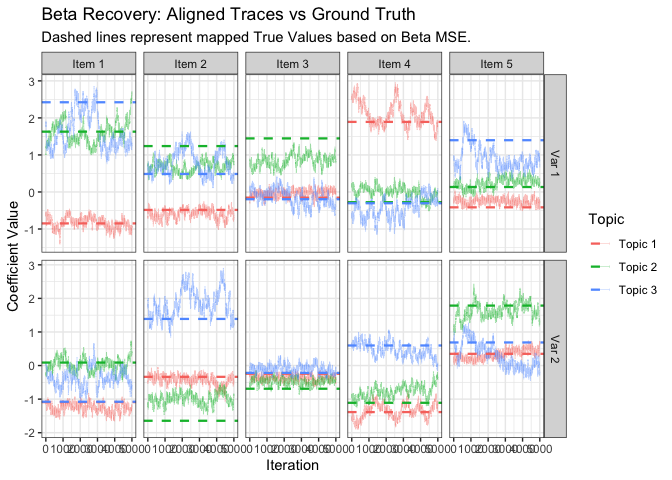
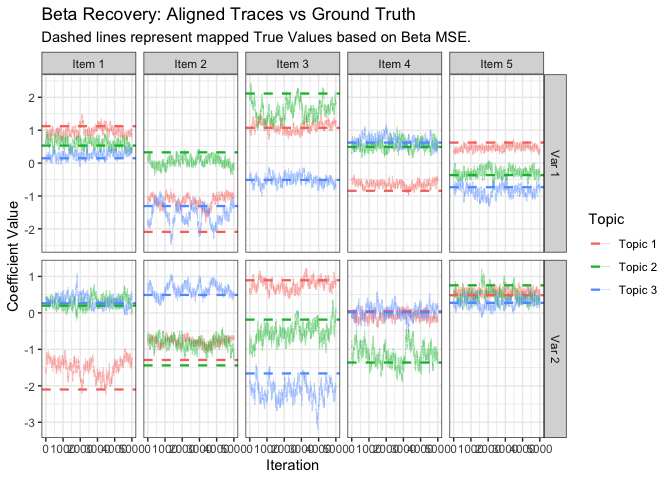
set class to samples

diff --git a/README.md b/README.md
@@ -18,17 +18,6 @@ You can install the development version of MRDLTM from GitHub:
 ``` r
 # install.packages("devtools")
 devtools::install_github("kyohashi/MRDLTM")
-#> 
-#> ── R CMD build ─────────────────────────────────────────────────────────────────
-#>      checking for file ‘/private/var/folders/8p/zs5z191d32j_7f9m7t86sn5h0000gn/T/RtmpprBbug/remotesc69430f2a8d6/kyohashi-MRDLTM-e8c58ed/DESCRIPTION’ ...  ✔  checking for file ‘/private/var/folders/8p/zs5z191d32j_7f9m7t86sn5h0000gn/T/RtmpprBbug/remotesc69430f2a8d6/kyohashi-MRDLTM-e8c58ed/DESCRIPTION’
-#>   ─  preparing ‘MRDLTM’:
-#>      checking DESCRIPTION meta-information ...  ✔  checking DESCRIPTION meta-information
-#>   ─  cleaning src
-#>   ─  checking for LF line-endings in source and make files and shell scripts
-#>   ─  checking for empty or unneeded directories
-#>   ─  building ‘MRDLTM_0.0.0.9000.tar.gz’
-#>      
-#> 
 ```
 
 ## Quick Start: Synthetic Data Experiment
@@ -44,7 +33,7 @@ We generate a synthetic dataset.
 library(MRDLTM)
 library(bayesplot)
 library(tidyverse)
-set.seed(42)
+set.seed(2026)
 
 n_topic = 3
 toy = generate_toy_data(
@@ -53,7 +42,7 @@ toy = generate_toy_data(
 )
 
 cat("Observed Purchase Rate:", mean(toy$observations$data$y), "\n")
-#> Observed Purchase Rate: 0.5912692
+#> Observed Purchase Rate: 0.5090385
 ```
 
 ### 2. Model Estimation
@@ -73,7 +62,7 @@ timer = system.time({
 #> Starting Gibbs Sampling: 10000 iterations (burn-in: 5000)
 
 cat(sprintf("Total Elapsed Time: %.2f minutes\n", timer["elapsed"] / 60))
-#> Total Elapsed Time: 1.57 minutes
+#> Total Elapsed Time: 1.61 minutes
 ```
 
 Handle the label-switching issue.
@@ -96,7 +85,7 @@ res_fixed = reorder_mrdltm(res, burnin = burnin)
 #>     Retrieve the 1 best clusterings: [...]$clusters
 #>     Retrieve the 1 CPU times: [...]$timings
 #>     Retrieve the 1 X 1 similarity matrix: [...]$similarity
-#>     Label switching finished. Total time: 10.7 seconds. 
+#>     Label switching finished. Total time: 9.8 seconds. 
 #> Applying corrections to all parameters...
 ```
 
